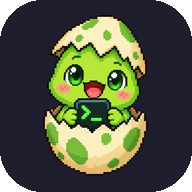
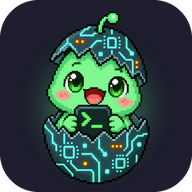
Nouvelle mascotte : œuf « circuit électronique » (plus de taches vertes), icônes de l'appli et du site ; animation de 8 images qui mâche avant d'avaler
Claude-Session: https://claude.ai/code/session_01Divag9b9e52aPY37DGRpjJ

diff --git a/site/src/worker.js b/site/src/worker.js
@@ -1019,9 +1019,9 @@ main{max-width:1040px;margin:0 auto;padding:30px 20px 80px}
 .sol{width:46%;height:10px;margin-top:10px;background:rgba(92,255,149,.18);animation:sol 2.6s steps(6) infinite alternate}
 @keyframes flotte{to{transform:translateY(-14px)}}
 @keyframes sol{to{transform:scaleX(.8);opacity:.6}}
-.mascotte.mange{aspect-ratio:300/420;background:url(/mascotte_mange.png) 0 0/600% 100% no-repeat;cursor:pointer}
-.mascotte.croque{animation:flotte 2.6s steps(6) infinite alternate,croque 2.6s step-end 1}
-@keyframes croque{0%{background-position-x:0}18%{background-position-x:20%}26%{background-position-x:40%}34%{background-position-x:60%}46%{background-position-x:80%}64%{background-position-x:100%}88%,100%{background-position-x:0}}
+.mascotte.mange{aspect-ratio:240/400;background:url(/mascotte_mange.png) 0 0/800% 100% no-repeat;cursor:pointer}
+.mascotte.croque{animation:flotte 2.6s steps(6) infinite alternate,croque 4.24s step-end 1}
+@keyframes croque{0.0%{background-position-x:0.0%}16.5%{background-position-x:14.286%}20.3%{background-position-x:28.571%}24.8%{background-position-x:42.857%}29.5%{background-position-x:57.143%}34.0%{background-position-x:42.857%}38.4%{background-position-x:57.143%}42.9%{background-position-x:42.857%}47.4%{background-position-x:71.429%}55.0%{background-position-x:85.714%}68.2%{background-position-x:100.0%}78.8%{background-position-x:0.0%}100%{background-position-x:0}}
 @media (prefers-reduced-motion:reduce){.mascotte,.sol,.curseur{animation:none}}
 .apercu{display:grid;gap:14px;grid-template-columns:repeat(auto-fill,minmax(96px,1fr));margin:18px 0}
 .apercu a{display:grid;place-items:center;aspect-ratio:1;margin:2px;position:relative}
